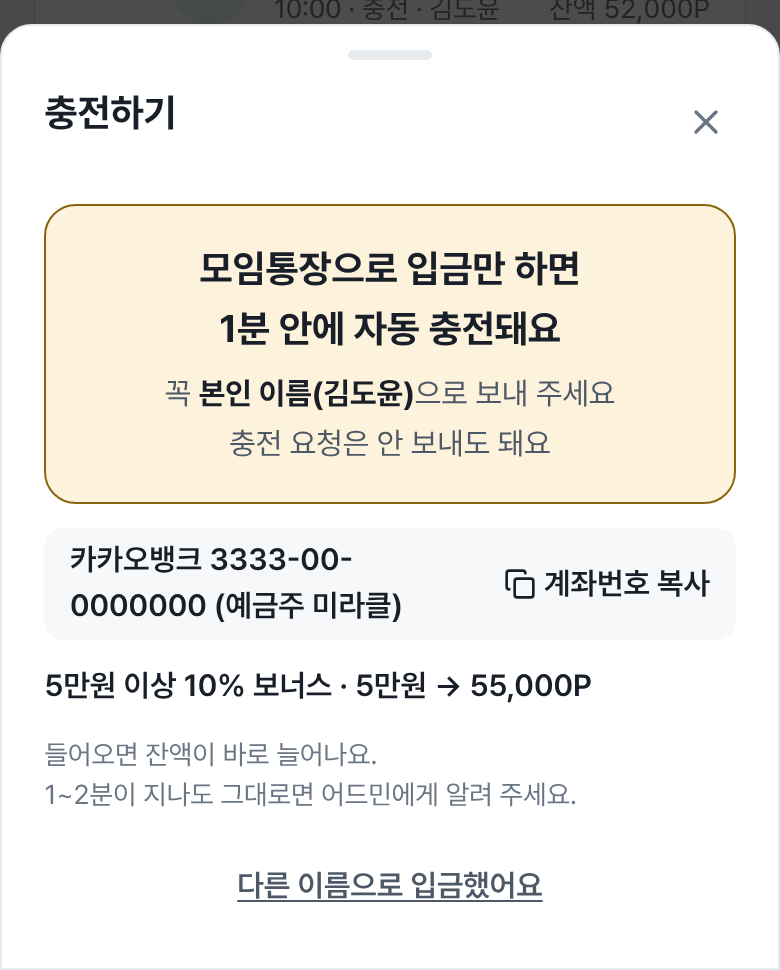
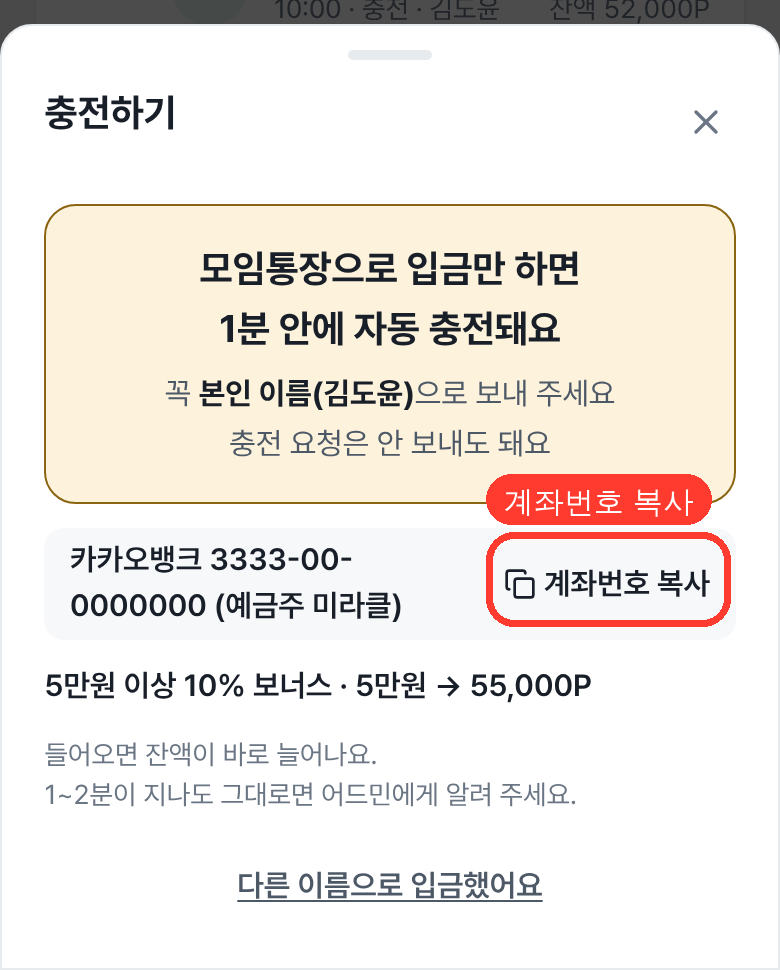
이용 가이드: 그림에 「여기를 누르세요」 표시 · PC 가운데 정렬·넓은 폭·큰 글자·글/그림 두 칸 · 줄바꿈 점검 6폭 0
Claude-Session: https://claude.ai/code/session_01XKriDCHCQUd27Doi5Zp5U9

Changed region(s): [[0.6154, 0.4639, 0.9538, 0.6495]]

diff --git a/src/components/league/guide/GuideContent.tsx b/src/components/league/guide/GuideContent.tsx
@@ -8,15 +8,15 @@ const card = { background: 'var(--mm-panel)', border: '1px solid var(--mm-rule)'
 export default function GuideContent({ images }: { images: string[] }) {
   const has = new Set(images)
   return (
-    <div className="space-y-4 lg:space-y-5 max-w-[760px] break-keep">
+    <div className="mx-auto w-full max-w-[1080px] space-y-4 lg:space-y-6 break-keep">
       <div>
         <h2 className="font-black text-[28px] lg:text-[32px] leading-none text-[color:var(--mm-ink)] tracking-tight">이용 가이드</h2>
-        <p className="mt-2 text-sm" style={{ color: 'var(--mm-muted)' }}>처음 오셨다면 위에서부터 차례로 읽어 보세요.</p>
+        <p className="mt-2 text-sm lg:text-base" style={{ color: 'var(--mm-muted)' }}>처음 오셨다면 위에서부터 차례로 읽어 보세요.</p>
       </div>
 
       <nav aria-label="가이드 목차" className="flex flex-wrap gap-2">
         {MEMBER_GUIDE.map((s, i) => (
-          <a key={s.id} href={`#${s.id}`} className="mm-press px-3 py-2 text-sm font-bold whitespace-nowrap"
+          <a key={s.id} href={`#${s.id}`} className="mm-press px-3 py-2 lg:px-4 lg:py-2.5 text-sm lg:text-base font-bold whitespace-nowrap"
             style={{ background: 'var(--mm-panel)', color: 'var(--mm-ink)', border: '1px solid var(--mm-rule)', borderRadius: 'var(--mm-radius-ctl)' }}>
             {i + 1}. {s.title}
           </a>
@@ -24,42 +24,46 @@ export default function GuideContent({ images }: { images: string[] }) {
       </nav>
 
       {MEMBER_GUIDE.map((s, i) => (
-        <section key={s.id} id={s.id} className="scroll-mt-20 p-4 md:p-5" style={card}>
-          <h3 className="flex items-center gap-2 font-black text-xl" style={{ color: 'var(--mm-ink)' }}>
-            <span className="shrink-0 inline-flex items-center justify-center w-7 h-7 text-sm"
+        <section key={s.id} id={s.id} className="scroll-mt-20 p-4 md:p-5 lg:p-8" style={card}>
+          <h3 className="flex items-center gap-2 lg:gap-3 font-black text-xl lg:text-[26px]" style={{ color: 'var(--mm-ink)' }}>
+            <span className="shrink-0 inline-flex items-center justify-center w-7 h-7 lg:w-9 lg:h-9 text-sm lg:text-base"
               style={{ background: 'var(--mm-yellow)', color: 'var(--mm-black)', borderRadius: '999px' }}>{i + 1}</span>
             <span>{s.title}</span>
           </h3>
-          {s.summary && <p className="mt-1 text-sm" style={{ color: 'var(--mm-muted)' }}>{s.summary}</p>}
+          {s.summary && <p className="mt-1 lg:mt-2 text-sm lg:text-base" style={{ color: 'var(--mm-muted)' }}>{s.summary}</p>}
 
           {s.steps.length > 0 && (
-            <ol className="mt-4 space-y-4">
-              {s.steps.map((st, j) => (
-                <li key={j} className="space-y-2">
-                  <p className="text-[15px] leading-relaxed" style={{ color: 'var(--mm-ink)' }}>{st.text}</p>
-                  {st.image && has.has(st.image) && (
-                    <figure className="mx-auto max-w-[390px]">
+            <ol className="mt-4 lg:mt-6 space-y-4 lg:space-y-8">
+              {s.steps.map((st, j) => {
+                const img = st.image && has.has(st.image) ? st.image : null
+                // PC(lg↑): 그림이 있는 단계는 글 왼쪽 · 그림 오른쪽 두 칸
+                return (
+                <li key={j} className={img ? 'space-y-2 lg:space-y-0 lg:grid lg:grid-cols-[minmax(0,1fr)_360px] lg:gap-10 lg:items-start' : 'space-y-2'}>
+                  <p className="text-[15px] lg:text-[18px] leading-relaxed lg:leading-[1.75]" style={{ color: 'var(--mm-ink)' }}>{st.text}</p>
+                  {img && (
+                    <figure className="mx-auto w-full max-w-[390px] lg:max-w-none">
                       {/* eslint-disable-next-line @next/next/no-img-element */}
-                      <img src={`/guide/${st.image}.png`} alt={st.caption ?? ''} loading="lazy"
+                      <img src={`/guide/${img}.png`} alt={st.caption ?? ''} loading="lazy"
                         className="w-full h-auto" style={{ border: '1px solid var(--mm-rule)', borderRadius: '12px' }} />
                       {st.caption && <figcaption className="mt-1 text-center text-xs" style={{ color: 'var(--mm-muted)' }}>{st.caption}</figcaption>}
                     </figure>
                   )}
                 </li>
-              ))}
+                )
+              })}
             </ol>
           )}
 
           {/* 자주 묻는 질문 — 질문마다 칸을 나누고, Q(위) · A(아래, 옅은 바탕)로 갈라 보인다 */}
           {s.faqs && (
-            <ol className="mt-4 space-y-3">
+            <ol className="mt-4 lg:mt-6 space-y-3 lg:space-y-4">
               {s.faqs.map((f, j) => (
-                <li key={j} className="p-3 md:p-4" style={{ border: '1px solid var(--mm-rule)', borderRadius: '10px' }}>
-                  <p className="flex gap-2 font-bold text-[15px] leading-relaxed" style={{ color: 'var(--mm-ink)' }}>
+                <li key={j} className="p-3 md:p-4 lg:p-5" style={{ border: '1px solid var(--mm-rule)', borderRadius: '10px' }}>
+                  <p className="flex gap-2 font-bold text-[15px] lg:text-[18px] leading-relaxed" style={{ color: 'var(--mm-ink)' }}>
                     <span className="shrink-0 font-black" style={{ color: 'var(--mm-yellow-strong, #b8860b)' }}>Q{j + 1}.</span>
                     <span>{f.q}</span>
                   </p>
-                  <p className="mt-2 flex gap-2 p-3 text-[15px] leading-relaxed" style={{ background: 'var(--mm-panel-alt)', color: 'var(--mm-ink)', borderRadius: '8px' }}>
+                  <p className="mt-2 flex gap-2 p-3 lg:p-4 text-[15px] lg:text-[17px] leading-relaxed lg:leading-[1.75]" style={{ background: 'var(--mm-panel-alt)', color: 'var(--mm-ink)', borderRadius: '8px' }}>
                     <span className="shrink-0 font-black" style={{ color: 'var(--mm-muted)' }}>A.</span>
                     <span>{f.a}</span>
                   </p>

diff --git a/src/lib/guide/memberGuide.ts b/src/lib/guide/memberGuide.ts
@@ -39,7 +39,7 @@ export const MEMBER_GUIDE: GuideSection[] = [
     steps: [
       { text: '안내된 모임통장에 본인 이름으로 입금만 하면, 이름을 확인해 1분 안에 포인트가 자동으로 충전돼요. 따로 충전 요청을 할 필요가 없어요.', image: 'wallet-charge', caption: '충전 창 — 계좌 복사' },
       { text: '가족 이름 등 다른 이름으로 입금했다면 충전 창의 「다른 이름으로 입금했어요」로 알려 주세요. 운영진이 확인해서 넣어 드려요.' },
-      { text: '5만원 이상 한 번에 충전하면 10%를 서비스 포인트로 더 드려요(5만원 → 55,000P). 미리 한 번에 충전하는 게 이득이에요.', image: 'wallet', caption: '내 월렛 — 포인트와 티켓' },
+      { text: '5만원 이상 한 번에 충전하면 10%를 서비스 포인트로 더 드려요. 5만원을 넣으면 55,000P가 돼요. 미리 한 번에 충전하는 게 이득이에요.', image: 'wallet', caption: '내 월렛 — 포인트와 티켓' },
       { text: '포인트로 참가 티켓을 사요. 정규권은 한 달 28,000P, 비정규 티켓은 한 번에 12,000P예요. 한 달에 3번 이상 나올 수 있다면 정규권이 훨씬 이득이에요.', image: 'wallet-ticket', caption: '티켓 사기' },
       { text: '정말 급한 상황이면 남은 포인트를 환불 신청할 수 있어요(받을 은행 · 계좌번호 입력). 운영진에게도 따로 연락해 주세요. 10% 보너스로 받은 포인트는 환불되지 않아요.' },
     ],

diff --git a/docs/text-wrap-audit.example.js b/docs/text-wrap-audit.example.js
@@ -2,7 +2,7 @@ const { chromium } = require('playwright')
 const { route } = require('./mocks')
 ;(async () => {
   const b = await chromium.launch()
-  for (const w of [360, 390, 768, 1280]) {
+  for (const w of [360, 390, 768, 1024, 1280, 1440]) {
     const p = await b.newPage({ viewport: { width: w, height: 900 } })
     await p.route('**/api/**', r => r.fulfill({ status: 200, contentType: 'application/json', body: JSON.stringify(route(r.request().url()) ?? { ok: true }) }))
     await p.goto('http://localhost:3100/zzshot/league/miracle/demo/guide', { waitUntil: 'networkidle', timeout: 120000 })
@@ -23,7 +23,7 @@ const { route } = require('./mocks')
       return out
     })
     console.log(w, bad.length ? '꺾임: ' + bad.join(' | ') : '꺾임 0')
-    if (w === 390 || w === 1280) await p.screenshot({ path: `${__dirname}/guide-${w}.png`, fullPage: true })
+    if (w === 1280) await p.screenshot({ path: `${__dirname}/guide-${w}.png`, fullPage: true })
     await p.close()
   }
   await b.close()

diff --git a/docs/onball-current-state.md b/docs/onball-current-state.md
@@ -6,6 +6,7 @@
 **최근 결정 (2026-11-10, 가입 자동 승인 · 이용 가이드):**
 - 가입(`auth/signup`): 명단에 **활동 중 · 게스트 아님 · 이름이 딱 한 명** 맞으면 바로 승인(`approved_by='자동(명단 이름 일치)'`) + 그 자리에서 로그인 쿠키 발급. 동명이인·비활동·명단에 없음 → 운영진 승인 대기. 명단에 없는 사람은 **비활성 선수(`is_active=false`)를 먼저 만들고**, 운영진이 승인하면(`admin/accounts/[id]` approve) 활동 중으로 바꾼다. 반려하면 비활성 선수가 남는다(명단엔 안 보임).
   ⚠ 생년월일은 확인하지 않으므로 회원 이름을 아는 사람이 먼저 가입하면 그 자리를 차지한다 — 그때는 운영진이 계정을 비활성화하고 본인이 다시 가입. 화면 문구 「관리자」 → 「운영진」.
+- 이용 가이드 그림에 빨간 「여기를 누르세요」 표시(10장 — 원본 `docs/guide-raw/`, 표시 그리기 `python3 scripts/guide-annotate.py docs public/guide`, 위치는 스크립트 안 MARKS). PC 는 가운데 정렬 · 폭 1080 · 글 왼쪽/그림 오른쪽 · 글자 18px. 줄바꿈 점검 6폭(360~1440) 0.
 - 이용 가이드 FAQ = 질문마다 칸 · 「Q1.」(위) / 「A.」(아래 옅은 바탕) — 유아이볼 사례(토스증권·더벤티·폴센트 FAQ: 번호 + Q 표시 + 줄 구분) 참고. 문장 꺾임 점검 규칙을 CLAUDE.md 에 추가(`docs/text-wrap-audit.example.js`).
 - 회원 이용 가이드 `/guide`(본문 정본 `lib/guide/memberGuide.ts`, 그림 `public/guide/*.png` 14장 — 시험 데이터 캡처) · 「나」 바로가기 · 릴스 시리즈 안내 `docs/member-guide-reels.md`.
 
